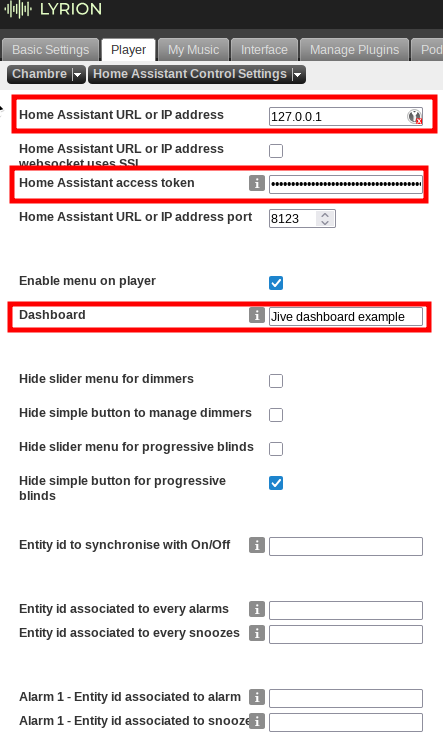
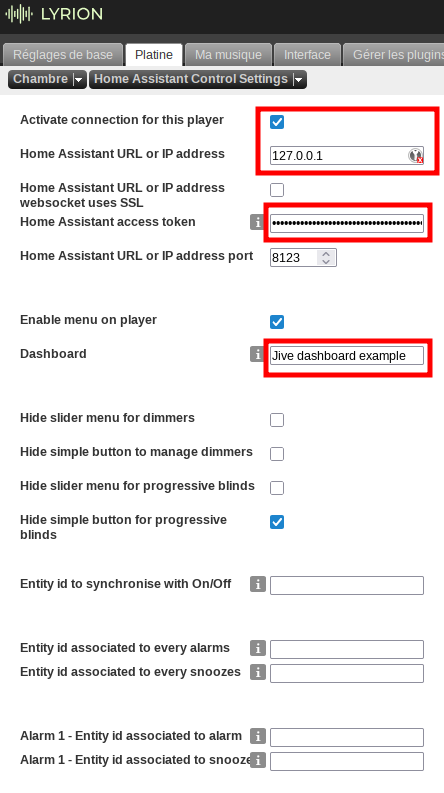
Improve ping and reconnections Add enable setting per player Replace number with ? in macro if entity unavailable or unknown

diff --git a/HTML/EN/plugins/HAControl/settings/player.html b/HTML/EN/plugins/HAControl/settings/player.html
@@ -20,6 +20,9 @@
 
 [% PROCESS settings/header.html %]
 
+                [% WRAPPER setting title="PLUGIN_HACONTROL_SETTINGS_CONNECTION_ENABLE" desc="" %]
+                    <input type="checkbox" name="pref_connectionEnable" id="connectionEnable" value="1" [% IF prefs.pref_connectionEnable %]checked="checked"[% END %]/>
+                [% END %]
                 [% WRAPPER setting title="PLUGIN_HACONTROL_SETTINGS_ADDRESS" desc="" %]
                     <input type="text" name="pref_address" id="address" value="[% prefs.pref_address %]"/>
                 [% END %]

diff --git a/README.md b/README.md
@@ -13,17 +13,33 @@ To install the plugin, add the repository URL `https://guillaumezin.github.io/HA
 Usage
 -----
 
-1. For each player, go to the player settings page and choose Home Assistant Control settings.
-
-1. There you can configure URL access for Home Assistant, access token (you can generate one in the bottom of your [Home Assistant profile security panel](https://my.home-assistant.io/redirect/profile_security/)) and Home Assistant dashboard name where you want to grab entities to get them on the player screen.
-
+1. First you must create and copy in Home Assistant an access token. You can generate one in the bottom of your [Home Assistant profile security panel](https://my.home-assistant.io/redirect/profile_security/).
+    
+    ![Create access token](assets/createtoken.png)
+    
+1. You must also create a Home Assistant dashboard where you want to grab entities to get them on the player screen.
+    
+    ![Create a dasboard](assets/dashboard.png)
+    
+1. For each player, go to the player settings page and choose Home Assistant Control settings. Set the various parameters to your need and your liking. Pay attention to Home Assistant URL, the access token and the dashboard name you got previously.
+    
+    ![Enter parameters in Lyrion](assets/lyrionsettings.png)
+    
 1. You can also associate alarms and snoozes with Home Assistant devices (switch commands only). This can be useful to activate Home Assistant automation through a switch input for instance.
-
+    
 1. You can associate a Home Assistant entity that will turn on and off at the same time as a player.
-
-1. If you have [Custom Clock, Custom Clock Helper](http://wiki.slimdevices.com/index.php/Custom_Clock_applet) and [SuperDateTime (weather.com version 5.9.42 onwards)](https://sourceforge.net/projects/sdt-weather-com), Home Assistant can expose values based on entities state to Custom Clock Helper. The formatting is explained in Home Assistant control settings of the player settings page.
-
+    
+1. If you have [Custom Clock, Custom Clock Helper](http://wiki.slimdevices.com/index.php/Custom_Clock_applet) and [SuperDateTime (weather.com version 5.9.42 onwards)](https://sourceforge.net/projects/sdt-weather-com), Home Assistant can expose values based on entities state to Custom Clock Helper. The formatting is explained in Home Assistant control settings of the player settings page. To get the entity id, you must access to entity parameters and there you can copy the entity id in your clipboard.
+    
+    ![Access entity parameters](assets/haentityparam.png)
+    
+    ![Copy entity id](assets/haentityid.png)
+    
 1. Home Assistant control should appear in home menu of your Jive based players.
+    
+    ![Main menu entry of the plugin](assets/jivehome.png)
+    
+    ![Inside the menu entry of the plugin](assets/jiveinsidemenu.png)
 
 Limitations
 -----------
